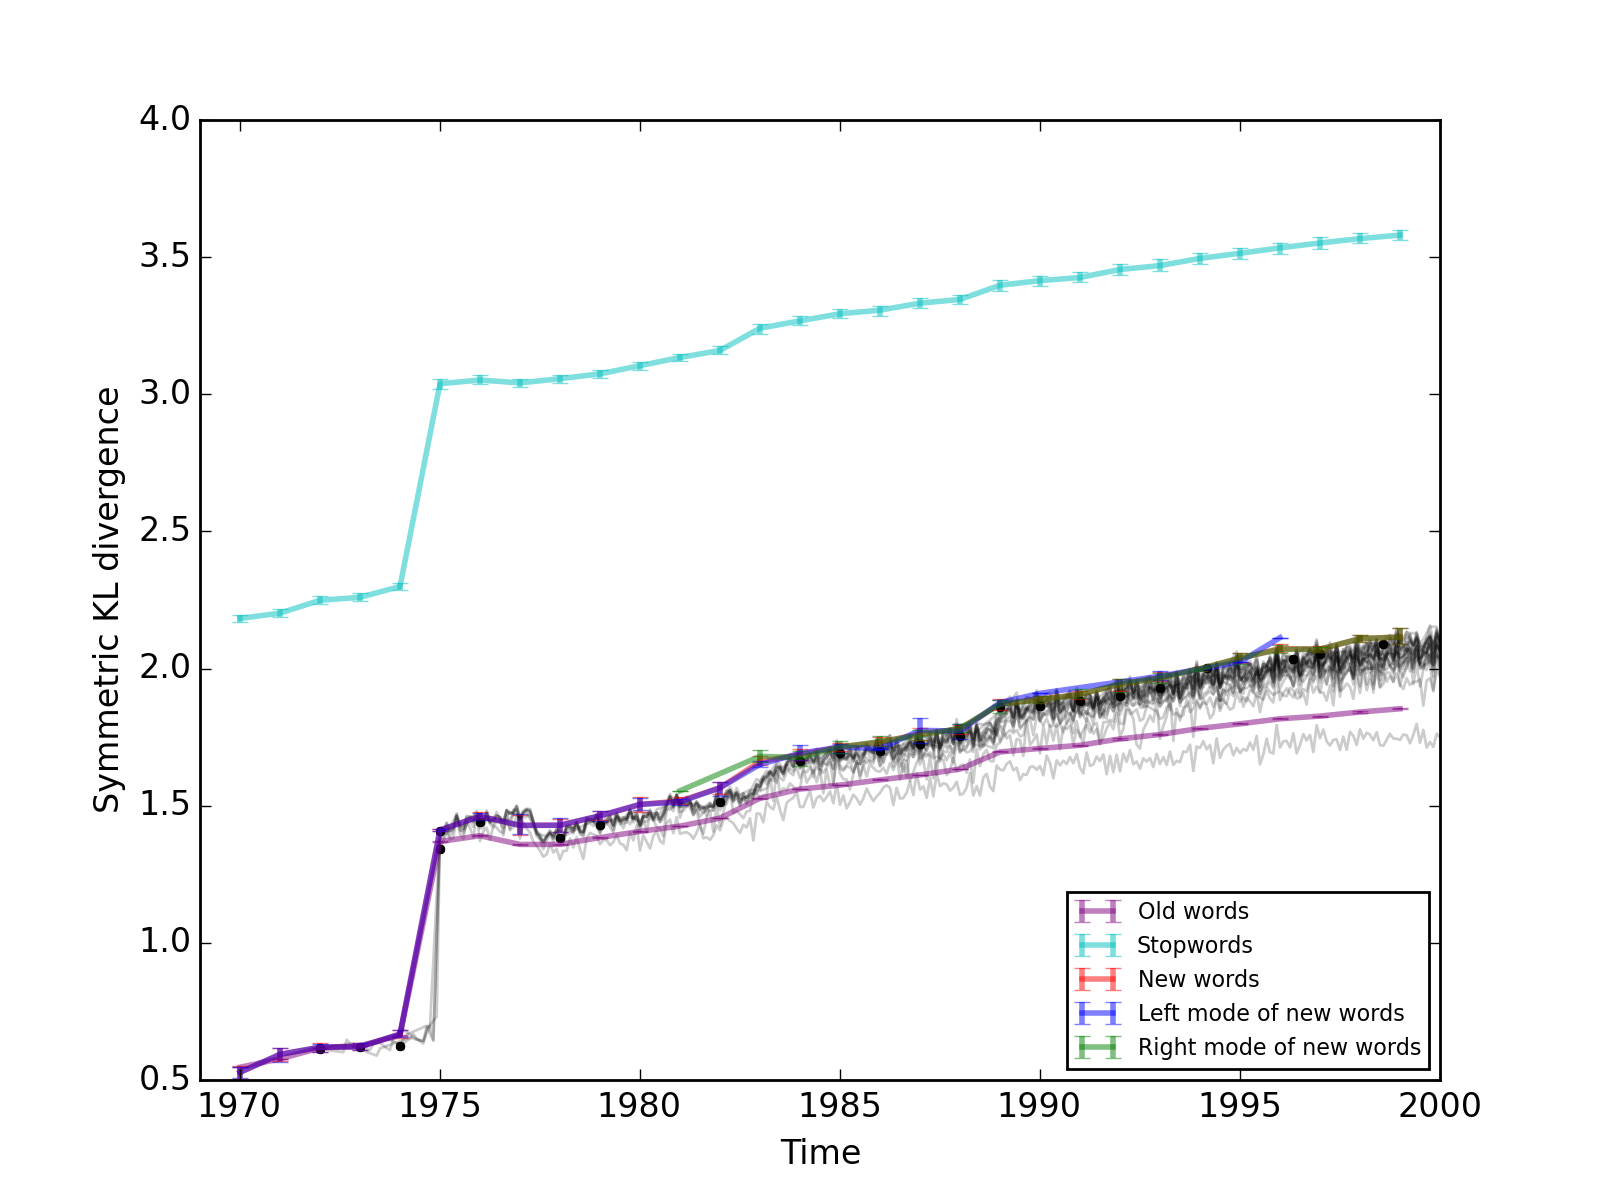
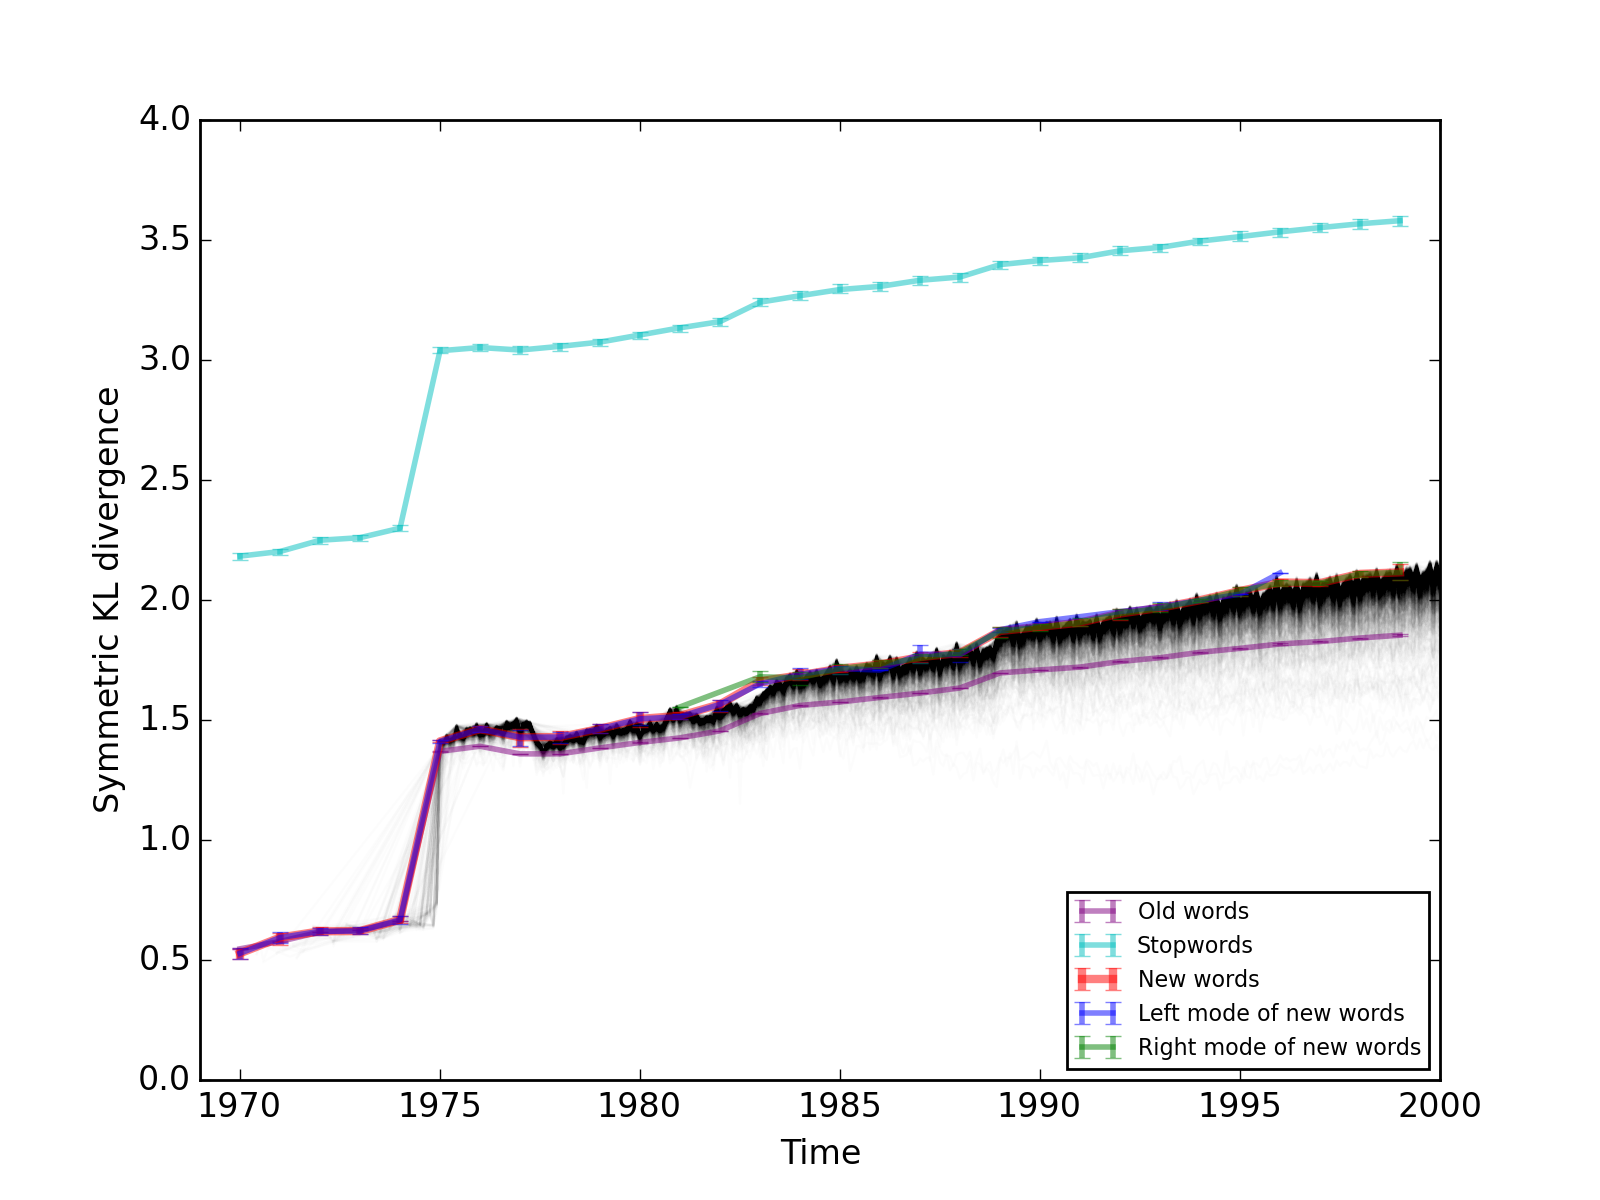
edited time series plot to include a thin semitransparent black line for every new word; made a separate time series plot of just new words in which the lines are colored by date of first appearance

diff --git a/graph_and_stuff.py b/graph_and_stuff.py
@@ -1,6 +1,7 @@
 import csv
 import numpy as np
 import matplotlib.pylab as plt
+import matplotlib
 
 
 
@@ -279,26 +280,26 @@ for num_years in [5,8]:
 fig, ax = plt.subplots()
 years = sorted(list(set([ d[0] for d in dates if d[0] < 2000 ])))
 
-# For every date whose month is January, plot a line for the mean KL score
-# of the batch of words whose first appearance is that date.
-for date in [ d for d in dates if d < (2000,0) and d[1] == 1 ]:
-    batch = [ word for word in words['new'] if first_appearances[word] == date ]
-    scores = dict()
-    for d in [ d for d in dates if d >= date ]:
-        s = remove_nones([ kl_scores['new'][w][dates.index(d)] for w in batch ])
-        scores[d] = np.mean(s) if s != [] else None
-    ds = [ d[0] + (d[1]-1)/12 for d in dates
-           if d >= date and scores[d] is not None ]
-    scores = remove_nones([ scores[k] for k in sorted(list(scores.keys())) ])
-    if scores == []:
-        continue
-    ax.plot(ds, scores, color='k', alpha=0.2)
-    ax.plot([ds[0]], [scores[0]], 'ko', markersize=3)
-    #ax.plot([ds[0]], [scores[0]], marker='o', markerfacecolor='none',
-    #        markeredgewidth=1.5, markersize=len(batch))
+# For every date whose month is, e.g., January, plot a line for each word
+# in the batch of words whose first appearance is that date.
+for m in range(1,13): # Actually, just do this for every month.
+    for date in [ d for d in dates if d < (2000,1) and d[1] == m ]:
+        batch = [ word for word in words['new']
+                  if first_appearances[word] == date ]
+        for word in batch:
+            scores = []
+            ds = []
+            for d in [ d for d in dates if d >= date ]:
+                score = kl_scores['new'][word][dates.index(d)]
+                if score is not None:
+                    scores.append(score)
+                    ds.append(d[0] + (d[1]-1)/12)
+            if scores != []:
+                ax.plot(ds, scores, color='k', alpha=0.01)
         
-# Now plot the mean KL scores for four big batches of words:
+# Now plot the mean KL scores for five big batches of words:
 # -- all old words,
+# -- all stopwords,
 # -- all new words,
 # -- the left mode of new words,
 # -- the right mode of new words.
@@ -371,7 +372,7 @@ for line in lines:
         style = '-'
     elif line == 'New words':
         color = 'r'
-        width = 2
+        width = 3
         style = '-'
     elif line == 'Left mode of new words':
         color = 'b'
@@ -385,7 +386,7 @@ for line in lines:
                 yerr=[remove_nones(lower_errs[line]),
                       remove_nones(upper_errs[line])],
                 linewidth=width, color=color, linestyle=style,
-                label=line, alpha=0.5)
+                label=line, alpha=0.5)#, capsize=9
                       
 plt.legend(loc='lower right', prop={'size':8})
 plt.xlabel('Time')
@@ -397,6 +398,48 @@ plt.savefig('plots/time_series.png', dpi=200)
 ax.set_xlim([1976, 2000])
 ax.set_ylim([1.2, 2.3])
 plt.savefig('plots/time_series_zoom.png', dpi=200)
+plt.close()
+
+
+
+
+
+# Time series of new words (not averaged) colored by date of first appearance.
+fig, ax = plt.subplots()
+
+# First sort the new words by date of first appearance in ascending order.
+pairs = sorted([ (first_appearances[word], word) for word in words['new'] ])
+sorted_words = [ word for (date, word) in pairs ]
+for word in sorted_words:
+    first = first_appearances[word]
+    scores = []
+    ds = []
+    for d in [ d for d in dates if d >= first ]:
+        score = kl_scores['new'][word][dates.index(d)]
+        if score is not None:
+            scores.append(score)
+            ds.append(d[0] + (d[1]-1)/12)
+    first = first[0] + (first[1]-1)/12
+    c = matplotlib.colors.rgb2hex(cmap((first - 1970) / (2000-1970)))
+    if scores != []:
+        ax.plot(ds, scores, alpha=0.05, color=c)
+
+m = plt.cm.ScalarMappable(cmap=cmap)
+m.set_array([0,1])
+cbar = plt.colorbar(m, ticks=[0,1])
+cbar.set_ticklabels(['1970','2000'])
+cbar.set_label('First appearance')
+
+ax.set_axis_bgcolor('0.25')
+plt.xlabel('Time')
+plt.ylabel('Symmetric KL divergence')
+
+ax.set_xlim([1969, 2000])
+plt.savefig('plots/time_series_colored_by_time.png', dpi=200)
+
+ax.set_xlim([1976, 2000])
+ax.set_ylim([1.2, 2.3])
+plt.savefig('plots/time_series_zoom_colored_by_time.png', dpi=200)
 plt.close()
 
 
